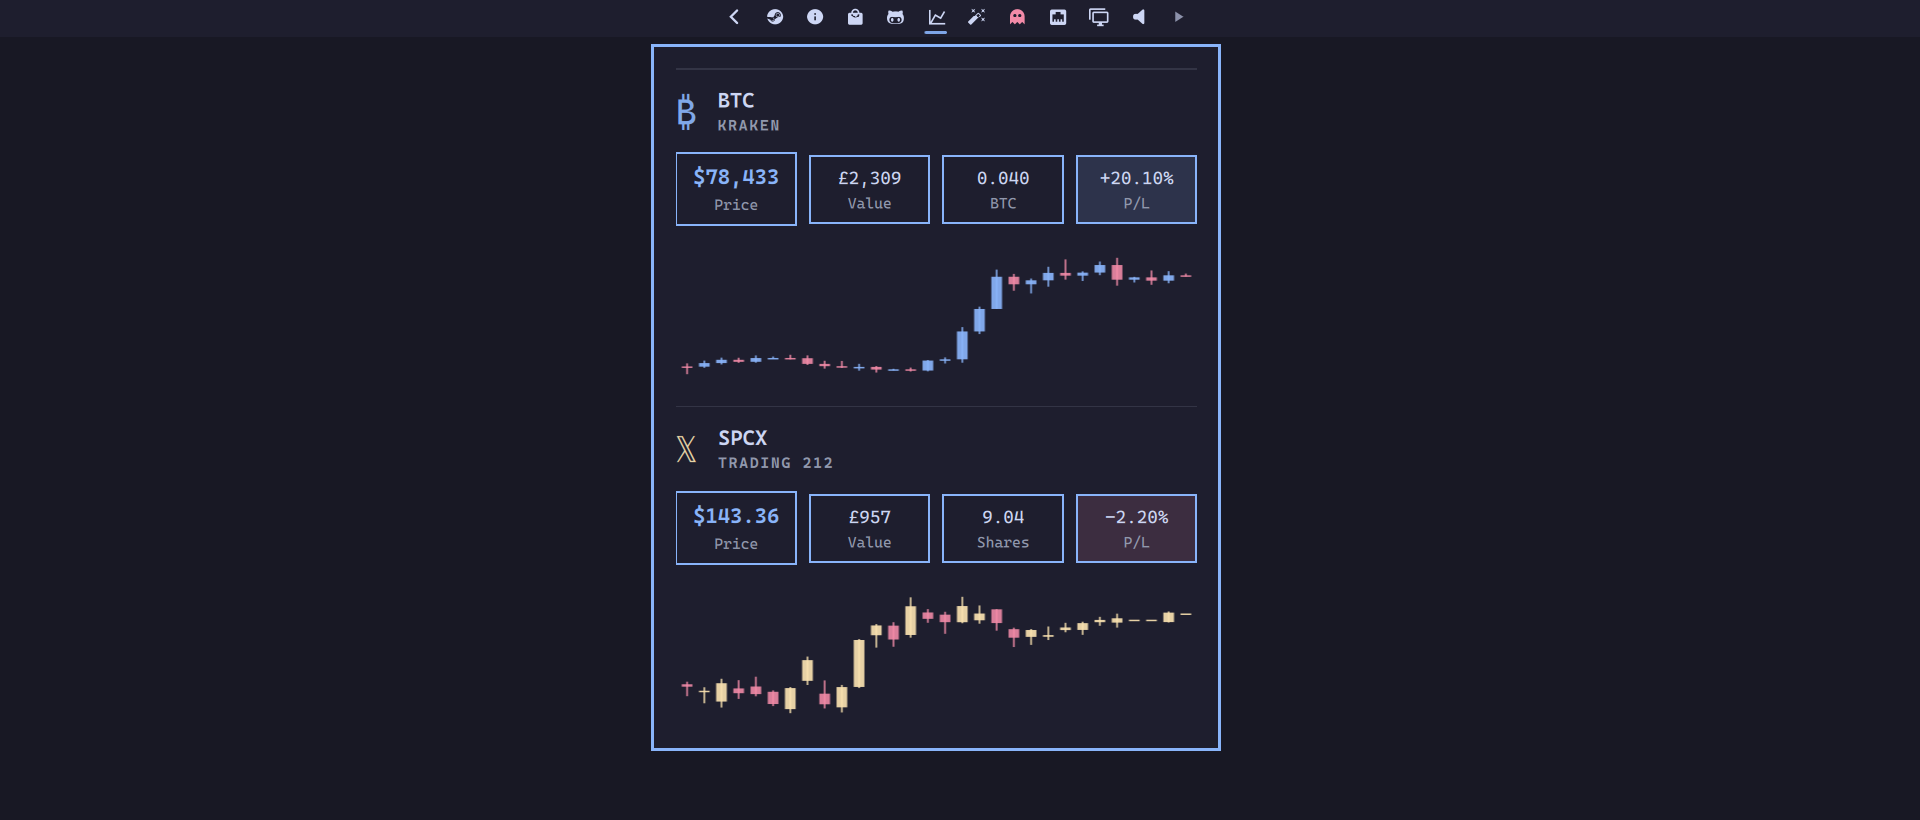
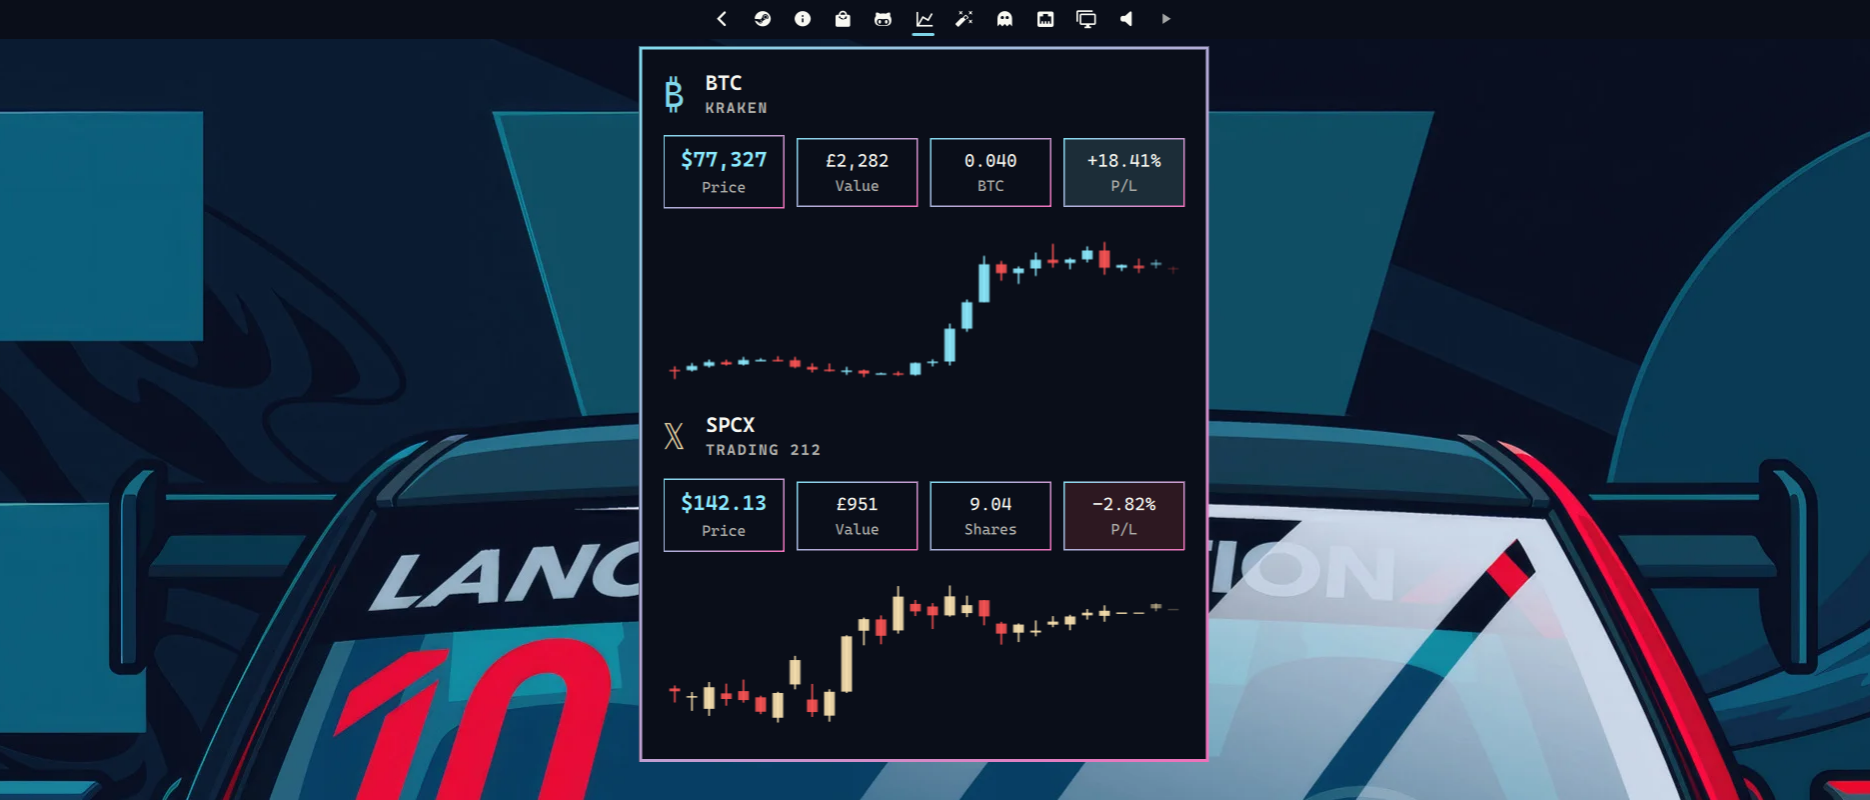
Panel design tweaks

diff --git a/components/SparklineChart.qml b/components/SparklineChart.qml
@@ -17,6 +17,9 @@ Item {
   property color bearishColor: "#f38ba8"
   property int lineWidth: 2
   property string fontFamily: "sans-serif"
+  property real revealProgress: 1
+  property bool active: false
+  property bool pendingOpenReveal: false
 
   readonly property bool isLine: style === "line"
   readonly property bool isCandlestick: style === "candlestick"
@@ -33,7 +36,46 @@ Item {
     if (isCandlestick) candleCanvas.requestPaint()
   }
 
+  function candleReveal(index, count) {
+    if (count <= 0)
+      return 1
+    var edge = revealProgress * count - index
+    return Math.min(1, Math.max(0, edge / Math.max(1, count * 0.12)))
+  }
+
+  function startReveal() {
+    revealProgress = 0
+    revealAnim.restart()
+  }
+
+  function scheduleReveal() {
+    if (!active || bars.length === 0)
+      return
+    Qt.callLater(startReveal)
+  }
+
+  onActiveChanged: {
+    if (active) {
+      if (bars.length > 0)
+        scheduleReveal()
+      else
+        pendingOpenReveal = true
+    } else {
+      pendingOpenReveal = false
+      revealAnim.stop()
+      revealProgress = 1
+    }
+  }
+
   onBarsChanged: {
+    if (pendingOpenReveal && active && bars.length > 0) {
+      pendingOpenReveal = false
+      scheduleReveal()
+    }
+    repaintLine()
+    repaintCandles()
+  }
+  onRevealProgressChanged: {
     repaintLine()
     repaintCandles()
   }
@@ -57,6 +99,29 @@ Item {
   onStyleChanged: {
     repaintLine()
     repaintCandles()
+  }
+
+  Component.onCompleted: {
+    if (active && bars.length > 0)
+      scheduleReveal()
+  }
+
+  NumberAnimation {
+    id: revealAnim
+    target: root
+    property: "revealProgress"
+    from: 0
+    to: 1
+    duration: 800
+    easing.type: Easing.OutCubic
+  }
+
+  FrameAnimation {
+    running: revealAnim.running
+    onTriggered: {
+      repaintLine()
+      repaintCandles()
+    }
   }
 
   readonly property int scaledBarWidth: barWidth
@@ -167,18 +232,19 @@ Item {
 
       Item {
         required property var modelData
+        required property int index
         width: root.effectiveBarWidth
         height: chartRow.height
 
         Rectangle {
           width: parent.width
           height: modelData.level > 0
-            ? Math.max(2, chartRow.height * modelData.level / 7)
+            ? Math.max(2, chartRow.height * modelData.level / 7 * (0.35 + 0.65 * root.candleReveal(index, root.bars.length)))
             : 0
           anchors.bottom: parent.bottom
           radius: 2
           color: modelData.color || root.bullishColor
-          opacity: 0.85
+          opacity: 0.85 * root.candleReveal(index, root.bars.length)
         }
       }
     }
@@ -203,6 +269,7 @@ Item {
       var usableH = Math.max(1, h - padY * 2)
       var step = pts.length > 1 ? usableW / (pts.length - 1) : 0
       var sharedRange = root.hasSecondary ? root.combinedValueRange() : null
+      var revealEnd = root.revealProgress * Math.max(0, pts.length - 1)
 
       function drawSeries(series, color, fill, range) {
         if (!series || series.length === 0)
@@ -218,42 +285,61 @@ Item {
           return padY + usableH - ((n - minV) / span) * usableH
         }
 
+        function pointAt(idx) {
+          var clamped = Math.min(revealEnd, Math.max(0, idx))
+          var base = Math.floor(clamped)
+          var frac = clamped - base
+          var x = padX + clamped * step
+          var y0 = yAt(series[base].value)
+          if (frac <= 0 || base >= series.length - 1)
+            return { x: x, y: y0 }
+          var y1 = yAt(series[base + 1].value)
+          return { x: x, y: y0 + (y1 - y0) * frac }
+        }
+
+        var visibleEnd = Math.min(series.length - 1, Math.ceil(revealEnd))
+        if (visibleEnd < 0)
+          return
+
         if (fill) {
           ctx.beginPath()
-          for (var i = 0; i < series.length; i++) {
-            var x = padX + i * step
-            var y = yAt(series[i].value)
-            if (i === 0) ctx.moveTo(x, y)
-            else ctx.lineTo(x, y)
+          for (var i = 0; i <= visibleEnd; i++) {
+            var pt = pointAt(i)
+            if (i === 0) ctx.moveTo(pt.x, pt.y)
+            else ctx.lineTo(pt.x, pt.y)
           }
-          ctx.lineTo(padX + (series.length - 1) * step, h)
+          var tail = pointAt(revealEnd)
+          ctx.lineTo(tail.x, h)
           ctx.lineTo(padX, h)
           ctx.closePath()
-          ctx.globalAlpha = 0.14
+          ctx.globalAlpha = 0.14 * root.revealProgress
           ctx.fillStyle = color
           ctx.fill()
           ctx.globalAlpha = 1
         }
 
         ctx.beginPath()
-        for (var j = 0; j < series.length; j++) {
-          var x2 = padX + j * step
-          var y2 = yAt(series[j].value)
-          if (j === 0) ctx.moveTo(x2, y2)
-          else ctx.lineTo(x2, y2)
+        for (var j = 0; j <= visibleEnd; j++) {
+          var pt2 = pointAt(j)
+          if (j === 0) ctx.moveTo(pt2.x, pt2.y)
+          else ctx.lineTo(pt2.x, pt2.y)
         }
+        var tailPt = pointAt(revealEnd)
+        ctx.lineTo(tailPt.x, tailPt.y)
         ctx.strokeStyle = color
         ctx.lineWidth = root.lineWidth
         ctx.lineJoin = "round"
         ctx.lineCap = "round"
+        ctx.globalAlpha = 0.35 + 0.65 * root.revealProgress
         ctx.stroke()
+        ctx.globalAlpha = 1
 
-        var lastX = padX + (series.length - 1) * step
-        var lastY = yAt(series[series.length - 1].value)
         ctx.beginPath()
-        ctx.arc(lastX, lastY, 3, 0, Math.PI * 2)
+        ctx.arc(tailPt.x, tailPt.y, 3, 0, Math.PI * 2)
         ctx.fillStyle = color
+        ctx.globalAlpha = 0.35 + 0.65 * root.revealProgress
         ctx.fill()
+        ctx.globalAlpha = 1
       }
 
       if (root.hasSecondary)
@@ -299,6 +385,10 @@ Item {
       }
 
       for (var i = 0; i < pts.length; i++) {
+        var reveal = root.candleReveal(i, pts.length)
+        if (reveal <= 0)
+          continue
+
         var ohlc = root.ohlcForBar(pts[i], i, pts)
         var x = padX + i * slotW + slotW / 2
         var yHigh = yAt(ohlc.high)
@@ -307,18 +397,24 @@ Item {
         var yClose = yAt(ohlc.close)
         var bullish = ohlc.close >= ohlc.open
         var color = bullish ? root.bullishColor : root.bearishColor
+        var grow = 0.15 + 0.85 * reveal
+
+        yHigh = yClose + (yHigh - yClose) * grow
+        yLow = yClose + (yLow - yClose) * grow
+        yOpen = yClose + (yOpen - yClose) * grow
 
         ctx.beginPath()
         ctx.moveTo(x, yHigh)
         ctx.lineTo(x, yLow)
         ctx.strokeStyle = color
         ctx.lineWidth = 1
+        ctx.globalAlpha = reveal
         ctx.stroke()
 
         var top = Math.min(yOpen, yClose)
-        var bodyH = Math.max(1, Math.abs(yClose - yOpen))
+        var bodyH = Math.max(1, Math.abs(yClose - yOpen) * grow)
         ctx.fillStyle = color
-        ctx.globalAlpha = bullish ? 0.92 : 0.88
+        ctx.globalAlpha = (bullish ? 0.92 : 0.88) * reveal
         ctx.fillRect(x - bodyW / 2, top, bodyW, bodyH)
         ctx.globalAlpha = 1
       }

diff --git a/Panel.qml b/Panel.qml
@@ -26,7 +26,7 @@ Panel {
   readonly property string fontFamily: bar ? bar.fontFamily : Style.font.family
 
   readonly property int chartHistoryDays: 30
-  readonly property int chartBlockHeight: 96
+  readonly property int chartBlockHeight: 112
   readonly property int refreshSeconds: 60
 
   property bool btcLoading: false
@@ -201,20 +201,10 @@ Panel {
             horizontalAlignment: Text.AlignHCenter
           }
 
-          PanelSeparator {
-            visible: !root.loading || root.iconActive
-            foreground: root.foreground
-          }
-
           MarketSection {
             width: parent.width
             market: root.btc
             loading: root.btcLoading
-          }
-
-          PanelSeparator {
-            visible: !root.loading || root.iconActive
-            foreground: root.foreground
           }
 
           MarketSection {
@@ -291,6 +281,7 @@ Panel {
 
       SparklineChart {
         anchors.fill: parent
+        active: root.opened
         style: "candlestick"
         bullishColor: market.chartColor || root.accent
         bearishColor: root.urgent

diff --git a/README.md b/README.md
@@ -13,8 +13,6 @@ omarchy plugin add /home/seb/projects/omarchy-stocks
 omarchy plugin enable evo.stocks
 ```
 
-A local path works the same way. Plugins run as unsandboxed code inside `omarchy-shell`. Review the files before enabling.
-
 ## Requirements
 
 - `curl`, `jq`, and `bash` on `PATH`
